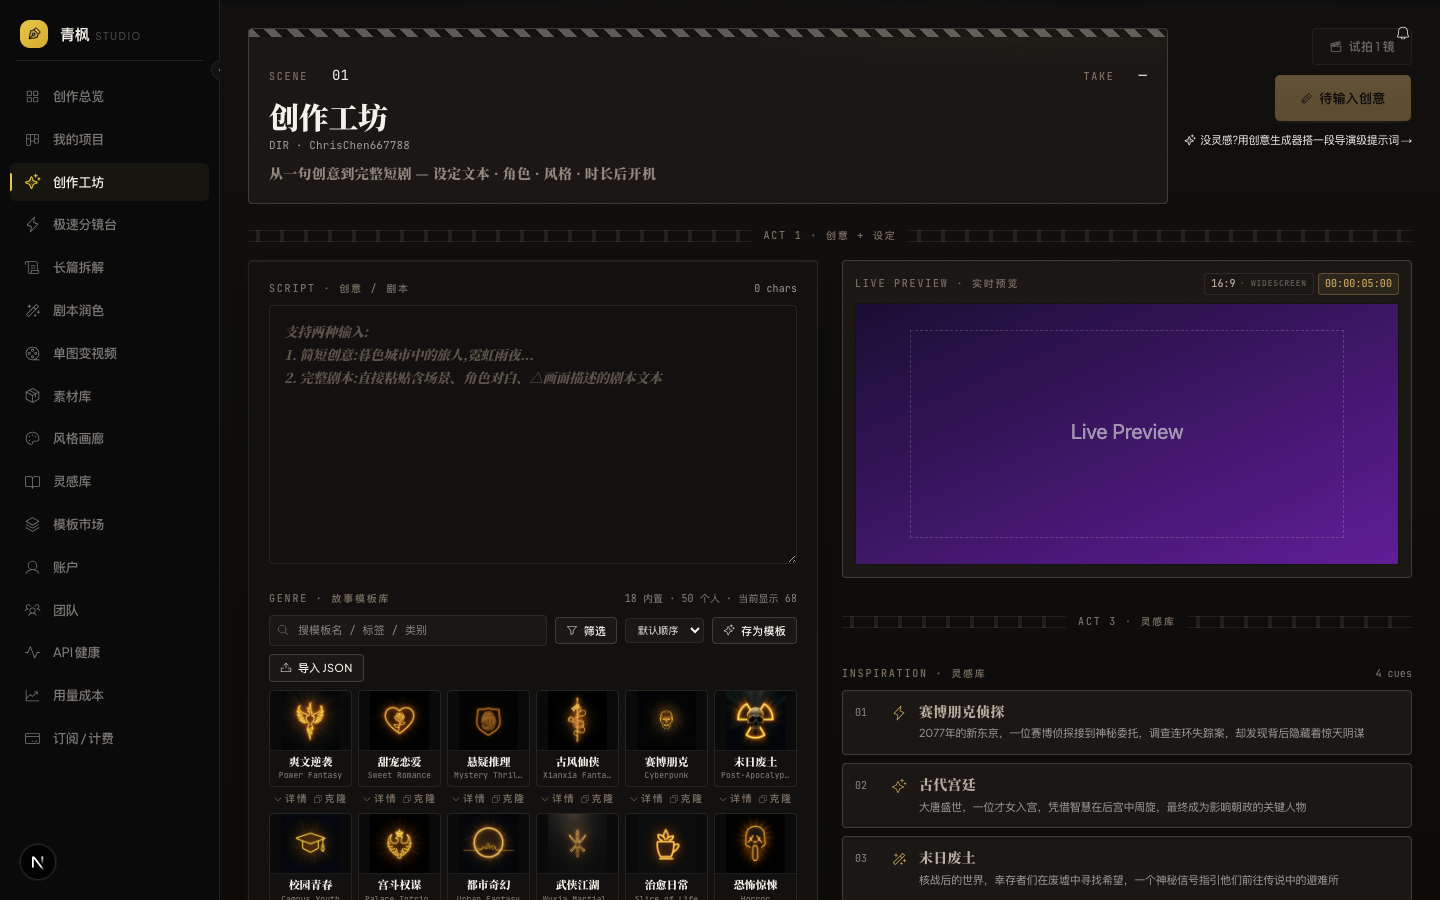
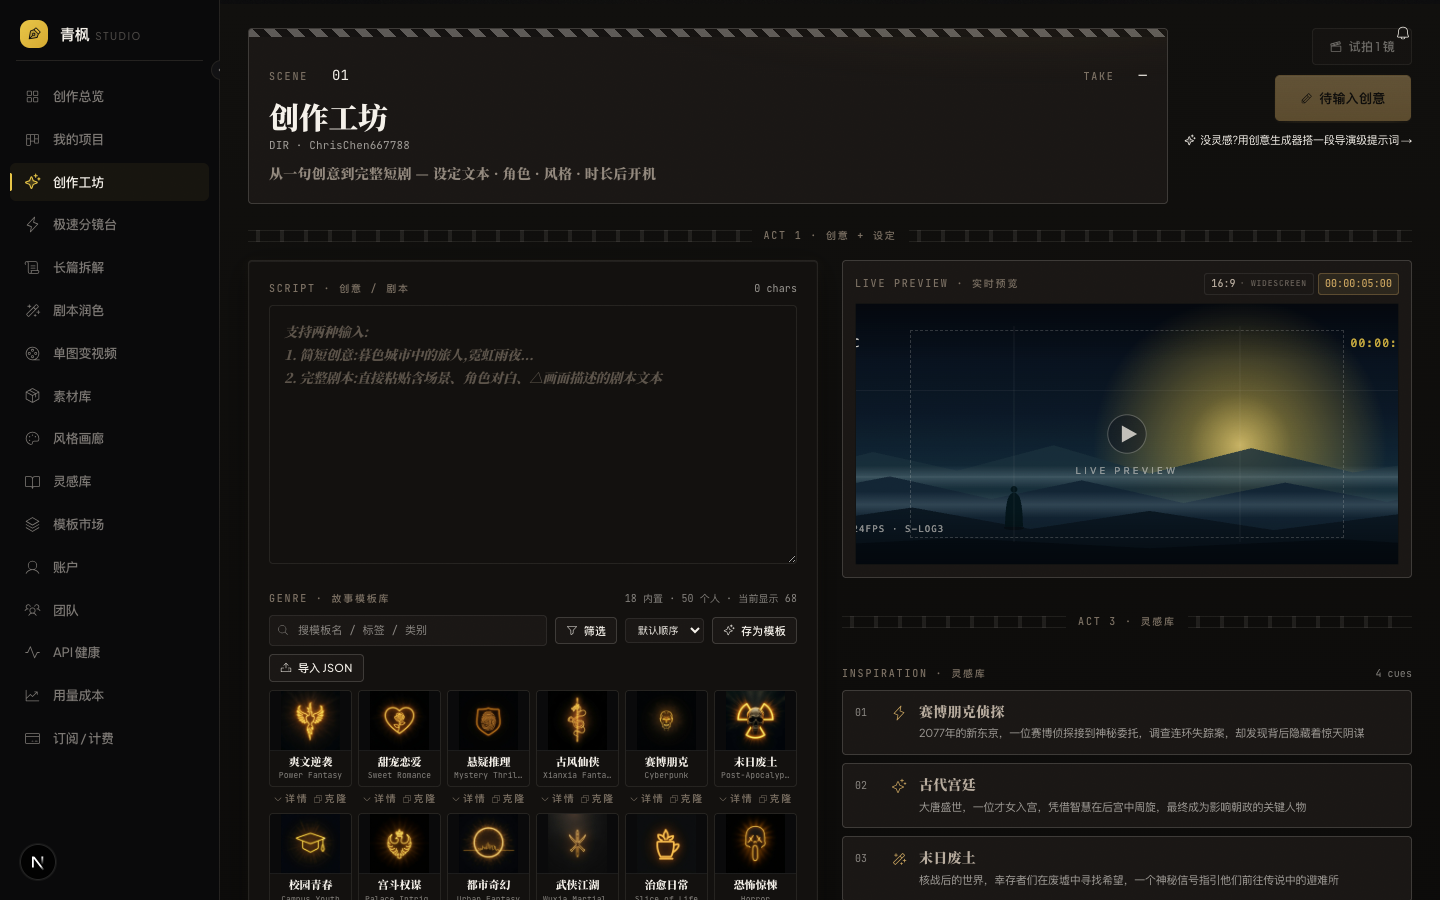
v10.0.3: 截图真实化 + Live Preview 占位升级
回应反馈「首页 hero / 实时预览仍是黑底或占位图」:

① 首页 hero 截图修复:此前 headless 截图时 <video> 首帧未解码 →
   截成纯黑(非真机样子)。改用 puppeteer 强制 play()+seek 到内容帧
   (6s / readyState=4)再截 → assets/v10/landing.png 真实显示
   《双城之战》hero 循环画面(131KB→1.1MB 印证含真实视频帧)。

② 创作工坊 Live Preview 占位升级:IMG_PREVIEW_DEFAULT 从死紫色渐变
   (#1a1035→#6b21a8 + 文字)换成原创「影院取景器」示意 SVG
   (雾山 + 孤身旅人剪影 + 太阳光晕 + 取景器 HUD:REC/时码/三分线/
   对焦角标,呼应品牌「情绪渲染·史诗收束·山雾骑士」)。create 实时
   预览 + projects 封面兜底同步变好看;纯 SVG 无第三方版权、随产品
   发布安全。重截 assets/v10/create.png(登录态)。

截图脚本用服务端 JWT secret 自签 demo 会话(非密码登录)+ 自验
/api/auth/me 200,跑完即删;README 图路径不变(原地替换)。

验证:tsc 0 + 两图肉眼复核(landing 见角色、create 见雾山取景器)。

Changed region(s): [[0.5938, 0.3111, 0.9688, 0.6533]]

diff --git a/lib/placeholder-images.ts b/lib/placeholder-images.ts
@@ -40,7 +40,65 @@ export const IMG_AUTH_BG1 = svgToDataUri(gradientSvg(260, 360, ['#581c87', '#f47
 export const IMG_AUTH_BG2 = svgToDataUri(gradientSvg(260, 360, ['#0e7490', '#4de0c2'], ''));
 
 // Preview / default
-export const IMG_PREVIEW_DEFAULT = svgToDataUri(gradientSvg(600, 260, ['#1a1035', '#6b21a8'], 'Live Preview'));
+// v10.0.3: 把原来的死紫色渐变占位换成「影院取景器」示意图 —
+//   雾山 + 孤身旅人剪影(呼应品牌「情绪渲染·史诗收束·山雾骑士」)+ 取景器 HUD。
+//   纯原创 SVG,无第三方版权,随产品发布安全。
+function cinematicPreviewSvg(): string {
+  return `<svg xmlns="http://www.w3.org/2000/svg" width="1200" height="460" viewBox="0 0 1200 460">
+  <defs>
+    <linearGradient id="cpSky" x1="0" y1="0" x2="0" y2="1">
+      <stop offset="0%" stop-color="#070d18"/><stop offset="42%" stop-color="#0c1b2a"/>
+      <stop offset="72%" stop-color="#163142"/><stop offset="100%" stop-color="#22414f"/>
+    </linearGradient>
+    <radialGradient id="cpSun" cx="50%" cy="50%" r="50%">
+      <stop offset="0%" stop-color="#f4d774" stop-opacity="0.9"/>
+      <stop offset="35%" stop-color="#e8c547" stop-opacity="0.45"/>
+      <stop offset="100%" stop-color="#e8c547" stop-opacity="0"/>
+    </radialGradient>
+    <linearGradient id="cpMist" x1="0" y1="0" x2="0" y2="1">
+      <stop offset="0%" stop-color="#bcdfe6" stop-opacity="0"/>
+      <stop offset="50%" stop-color="#bcdfe6" stop-opacity="0.22"/>
+      <stop offset="100%" stop-color="#bcdfe6" stop-opacity="0"/>
+    </linearGradient>
+    <linearGradient id="cpVig" x1="0" y1="0" x2="0" y2="1">
+      <stop offset="0%" stop-color="#000" stop-opacity="0.35"/><stop offset="22%" stop-color="#000" stop-opacity="0"/>
+      <stop offset="78%" stop-color="#000" stop-opacity="0"/><stop offset="100%" stop-color="#000" stop-opacity="0.45"/>
+    </linearGradient>
+  </defs>
+  <rect width="1200" height="460" fill="url(#cpSky)"/>
+  <circle cx="800" cy="250" r="260" fill="url(#cpSun)"/>
+  <path d="M0,300 L150,262 L300,295 L470,250 L640,300 L820,255 L1000,298 L1200,268 L1200,460 L0,460 Z" fill="#1b3340" opacity="0.85"/>
+  <rect x="0" y="286" width="1200" height="40" fill="url(#cpMist)"/>
+  <path d="M0,340 L180,305 L360,345 L520,312 L700,352 L880,316 L1060,350 L1200,322 L1200,460 L0,460 Z" fill="#15293a"/>
+  <rect x="0" y="332" width="1200" height="46" fill="url(#cpMist)" opacity="0.85"/>
+  <path d="M0,392 L220,360 L430,398 L640,366 L860,400 L1080,372 L1200,392 L1200,460 L0,460 Z" fill="#0c1a26"/>
+  <path d="M0,430 L300,414 L640,432 L980,416 L1200,430 L1200,460 L0,460 Z" fill="#06101a"/>
+  <g transform="translate(398,356)" fill="#04181f">
+    <ellipse cx="2" cy="40" rx="18" ry="4" fill="#000" opacity="0.35"/>
+    <path d="M2,-22 C-9,-22 -13,-6 -14,38 L18,38 C17,-6 13,-22 2,-22 Z"/>
+    <circle cx="2" cy="-28" r="6"/>
+  </g>
+  <rect width="1200" height="460" fill="url(#cpVig)"/>
+  <g stroke="#f5f1ea" stroke-opacity="0.12" stroke-width="1">
+    <line x1="400" y1="40" x2="400" y2="420"/><line x1="800" y1="40" x2="800" y2="420"/>
+    <line x1="60" y1="153" x2="1140" y2="153"/><line x1="60" y1="306" x2="1140" y2="306"/>
+  </g>
+  <g stroke="#e8c547" stroke-opacity="0.7" stroke-width="3" fill="none">
+    <path d="M48,60 L48,36 L72,36"/><path d="M1152,60 L1152,36 L1128,36"/>
+    <path d="M48,400 L48,424 L72,424"/><path d="M1152,400 L1152,424 L1128,424"/>
+  </g>
+  <circle cx="70" cy="70" r="7" fill="#ff4d4f"/>
+  <text x="86" y="76" font-family="ui-monospace,Menlo,monospace" font-size="20" fill="#f5f1ea" fill-opacity="0.92" letter-spacing="2">REC</text>
+  <text x="1150" y="76" text-anchor="end" font-family="ui-monospace,Menlo,monospace" font-size="20" fill="#e8c547" fill-opacity="0.92" letter-spacing="2">00:00:08:04</text>
+  <text x="56" y="404" font-family="ui-monospace,Menlo,monospace" font-size="16" fill="#f5f1ea" fill-opacity="0.6" letter-spacing="2">4K · 24FPS · S-LOG3</text>
+  <g transform="translate(600,230)">
+    <circle r="34" fill="#0a0f1c" fill-opacity="0.4" stroke="#f5f1ea" stroke-opacity="0.35" stroke-width="1.5"/>
+    <path d="M-9,-15 L18,0 -9,15 Z" fill="#f5f1ea" fill-opacity="0.85"/>
+  </g>
+  <text x="600" y="300" text-anchor="middle" font-family="system-ui" font-size="17" fill="#f5f1ea" fill-opacity="0.55" letter-spacing="6">LIVE PREVIEW</text>
+</svg>`;
+}
+export const IMG_PREVIEW_DEFAULT = svgToDataUri(cinematicPreviewSvg());
 
 // Avatar default
 export const IMG_AVATAR_DEFAULT = svgToDataUri(

diff --git a/VERSIONS.md b/VERSIONS.md
@@ -179,6 +179,7 @@
 | **v6.4** | 2026-05-24 | `386f22a` | 导演级全链路编辑(对标火山控片):`lib/pipeline-stages`(4 环节模型 + 按 updatedAt 推 空/就绪/待更新 stale + 下游失效分析,8 单测)+ 项目页「导演台」tab(`director-console`:流水线可视化 + 进度 + 跳节点编辑 + 重跑下游影响);项目 API 补 updatedAt |
 | **v6.5** | 2026-05-24 | `ea346b7` | 团队工作区 + 积分额度分配(对标火山团队协作):`lib/team-credits`(额度数学 + 分配校验 + RBAC,12 单测)+ `team_allocations` 表 + `GET/PUT /api/team/allocations`(超额拒绝)+ `/dashboard/team`(池总览 + 成员额度编辑 + 添加/移除)+ 侧栏入口。**阶段八对标六版全交付** |
 | **v6.2.3** | 2026-05-24 | `1bd634e` | 解说音轨接真 TTS + N 集并行编排:`lib/season-orchestrator`(`runPool` 有界并发池 + `orchestrateSeason`)+ `lib/narration-synth`(解说计划真出音频 → 按真实时长重排时轴 + 字幕,单段失败降级,synth 注入可单测,13 单测)+ `POST /api/narration/synthesize` + `POST /api/season/narrate`(整季有界并发)+ story-intake「整季并行解说音轨」按钮 + 逐集结果面板 |
+| **v10.0.3** | 2026-06-07 | `(本次)` | 截图真实化 + Live Preview 占位升级(回应用户反馈「首页 hero / 实时预览仍是黑底或占位图」):① **首页 hero 截图修复**——此前 headless 截图时 `<video>` 首帧尚未解码 → 截成纯黑底(并非真机样子);现 puppeteer 强制 `play()` + `seek` 到内容帧(6s / `readyState=4`)再截 → `assets/v10/landing.png` 真实显示**《双城之战》hero 循环画面**(与真机一致,文件 131KB→1.1MB 印证含真实视频帧)。② **创作工坊 Live Preview 占位升级**——`IMG_PREVIEW_DEFAULT` 从死紫色双色渐变(`#1a1035→#6b21a8` + 文字)换成**原创「影院取景器」示意 SVG**(雾山 + 孤身旅人剪影 + 太阳光晕 + 取景器 HUD:REC 红点 / 时码 / 三分线 / 对焦角标,呼应品牌「情绪渲染·史诗收束·山雾骑士」);`create` 实时预览区 + `projects` 项目封面兜底同步变好看,**纯 SVG 无第三方版权、随产品发布安全**;重截 `assets/v10/create.png`(登录态、新预览图)。截图脚本用服务端 JWT secret 自签 demo 会话(**非密码登录**)+ 自验 `/api/auth/me 200`,跑完即删;README 图路径不变(原地替换)。验证:**tsc 0 + 两图肉眼复核**(landing 见双城之战角色、create 见雾山取景器)。 |
 | **v10.0.2** | 2026-06-07 | `3f3ba2b` | v10 收口·**各模块真实截图刷新**(完成延后清单最后一项):种子化演示数据(demo 项目「霓虹追缉」6 镜双角色 + 4 个市场模板 + cost_log/质检/对齐/一致性)→ 复用已登录会话 token 用 **puppeteer 无头**截 4 张真实模块图:`assets/v10/{create,templates,qc,cost}.png`。README(中英)New in 区把 v6 巡览 GIF + v8.3 旧图块换成 **v10 模块 2×2 实拍**(创作工坊 / 模板市场 / 成片质检+配音口型 / 技术监看-成本);深层 v6–v8 单模块图加「早期截图」横幅如实标注。重跑 `gen-modelscope-intro`(4 张 v10 图入链,0 残留)。验证:**tsc 0 + 截图皆登录态、数据充实**(质检 4 维门禁 + 口型轨 + 6 镜评分 / 成本 ¥16.8 / 模板 ★5–★2)。 |
 | **v10.0.1** | 2026-06-07 | `13b30e9` | 灵感库·**第 4 段案例视频接入**(用户提供 6月7日 片段):「云岚日记」此前无视频(渐变占位)→ 现接 `public/cases/clip-d.mp4`(4K 源 ffmpeg 转 **720p / 8s / H.264 faststart / 保留音轨**,413KB)。三处一致写入:dev SQLite(即时生效)+ `lib/db.ts` 幂等回填 & seed 数组(`video: '/cases/clip-d.mp4'`)+ live PG(`UPDATE`);至此 4 张案例卡全部静音循环播真片段。`public/cases/NOTICE.md` 补 clip-d 条目(用户提供、若引用第三方版权同样**仅个人学习/非商用**)。验证:**tsc 0 + `/api/cases` 返 4 段 videoUrl**。⚠ 刷新 dev 生效。 |
 | **v9.7.17** | 2026-06-04 | `a3d277b` | 阶段十六精修 VI · **T3 成本预算护栏**:`lib/cost-attribution` 加纯函数 `evaluateCostGuard({totalCny, capCny, warnThreshold=0.8})` → `none`(无上限)/ `ok` / `warn`(≥阈值×上限)/ `over`(≥上限),含 `pctUsed/remainingCny/message`。与 `cost-rollup.computeBudget`(周期 + 线性预测)**正交**:这是单项目**累计花费的硬上限护栏**。`GET /api/projects/[id]/cost` 加 `?cap=` → 返 `guard`;`cost-attribution-panel` 加**预算上限输入**(`localStorage` 按项目存)+ **进度条**(ok 绿 / warn 黄 / over 红)+ 文案(剩余 / 超支)。客户端用同一纯函数即时算(无需重拉)。验证:**tsc 0 + cost-attribution +4 单测**(无上限→none / 预算内→ok+占比剩余 / 达阈值→warn / 超上限→over)。 |
